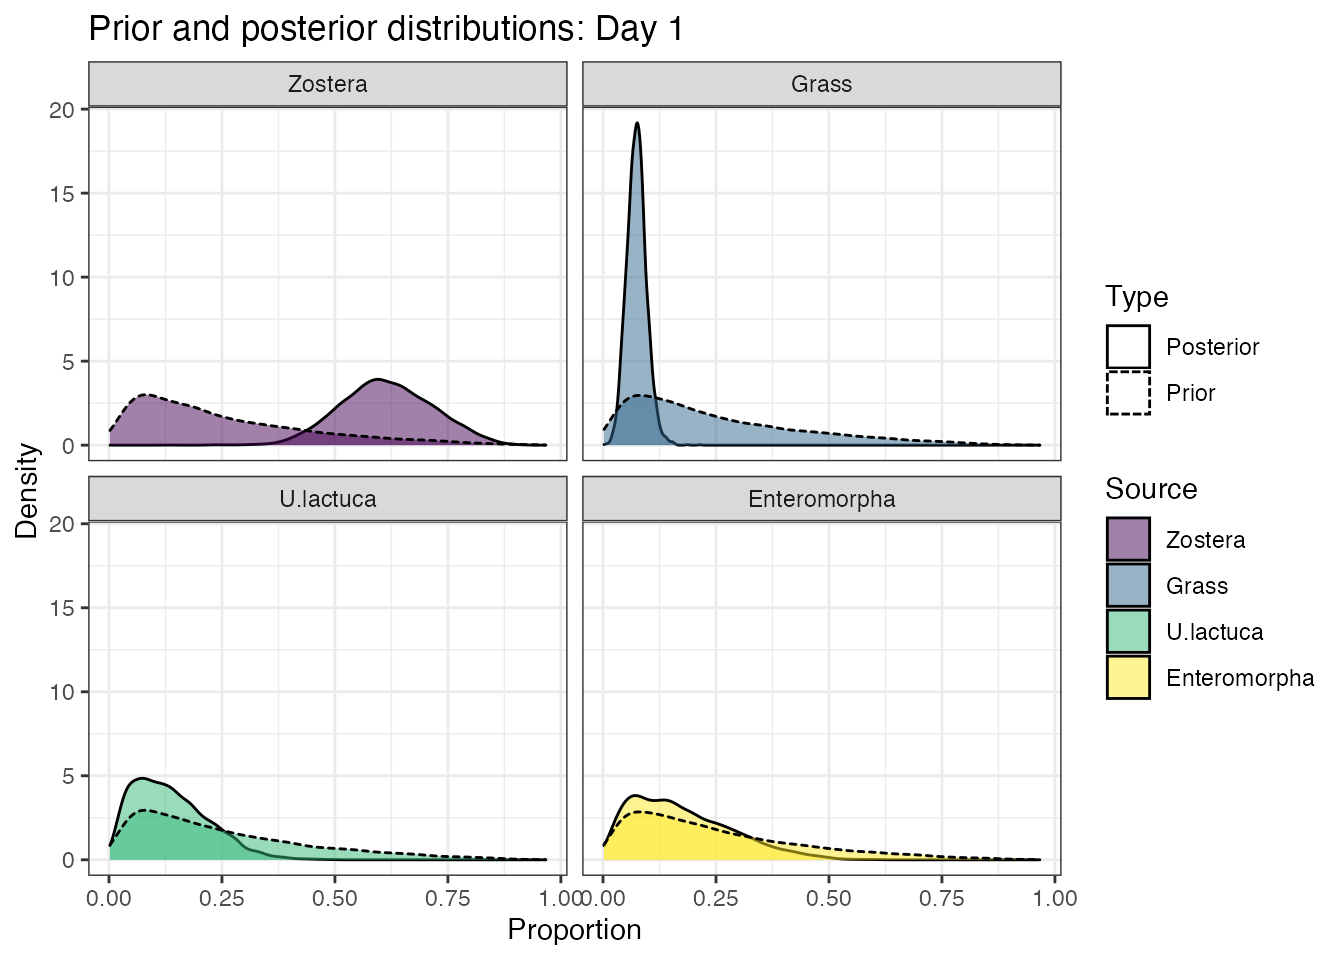
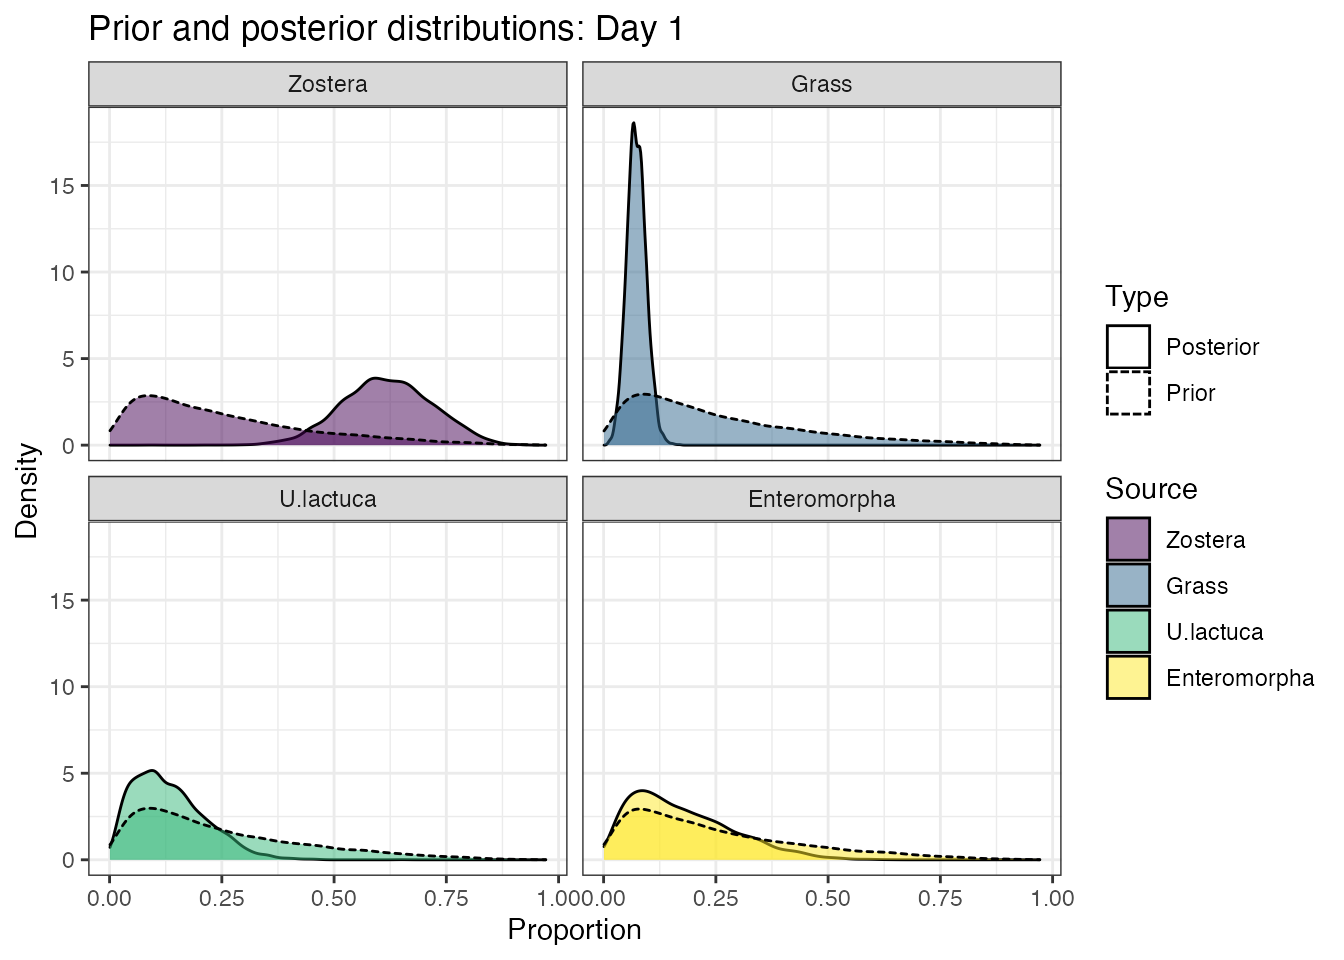
Created better vignette

diff --git a/docs/articles/simmr.html b/docs/articles/simmr.html
@@ -160,9 +160,11 @@
 </li>
 <li>Run the mixing model with <code>simmr_mcmc</code>
 </li>
-<li>Explore the results with <code>plot</code> and <code>summary</code>
+<li>Check the model converged with <code>summary</code>
 </li>
-<li>If you have multiple groups and want to compare output between them, use the `compare_groups’ function</li>
+<li>Check the model fit is calibrated with <code>posterior_predictive</code>
+</li>
+<li>Explore the results with <code>plot</code> and <code>summary</code>, and <code>prior_viz</code>. If you have multiple groups and want to compare output between them, use the `compare_groups’ function</li>
 </ol>
 <p>For the next part of this document, we concentrate on simple examples without grouping structure.</p>
 <div id="step-1-getting-the-data-into-simmr" class="section level3">
@@ -271,25 +273,25 @@
 <pre><code>## 
 ## Summary for 1 
 ##                mean    sd
-## deviance     36.293 3.174
+## deviance     36.228 3.230
 ## Zostera       0.222 0.132
-## Grass         0.287 0.080
+## Grass         0.287 0.078
 ## U.lactuca     0.276 0.032
-## Enteromorpha  0.215 0.120
-## sd[d13C]      0.551 0.232
-## sd[d15N]      0.426 0.228</code></pre>
+## Enteromorpha  0.215 0.118
+## sd[d13C]      0.555 0.236
+## sd[d15N]      0.422 0.229</code></pre>
 <div class="sourceCode" id="cb16"><pre class="downlit sourceCode r">
 <code class="sourceCode R"><span class="fu"><a href="https://rdrr.io/r/base/summary.html">summary</a></span><span class="op">(</span><span class="va">simmr_out</span>, type <span class="op">=</span> <span class="st">"quantiles"</span><span class="op">)</span></code></pre></div>
 <pre><code>## 
 ## Summary for 1 
 ##                2.5%    25%    50%    75%  97.5%
-## deviance     32.258 33.993 35.612 37.879 44.313
-## Zostera       0.029  0.113  0.203  0.314  0.501
-## Grass         0.141  0.233  0.284  0.337  0.456
-## U.lactuca     0.214  0.256  0.275  0.295  0.342
-## Enteromorpha  0.032  0.116  0.203  0.297  0.469
-## sd[d13C]      0.188  0.397  0.526  0.671  1.069
-## sd[d15N]      0.039  0.275  0.403  0.558  0.938</code></pre>
+## deviance     32.175 33.921 35.487 37.726 44.746
+## Zostera       0.032  0.114  0.203  0.316  0.506
+## Grass         0.145  0.234  0.283  0.335  0.450
+## U.lactuca     0.218  0.254  0.275  0.296  0.341
+## Enteromorpha  0.032  0.119  0.203  0.296  0.463
+## sd[d13C]      0.186  0.397  0.519  0.677  1.117
+## sd[d15N]      0.046  0.271  0.393  0.549  0.948</code></pre>
 <p>These suggest that the dietary proportions for this model are quite uncertain. However we can see that the credible interval for U.lactuca is the narrowest, running from approximately 20% to 35% of the diet. The reason this one is the narrowest can be seen from the isospace plot - this source is the most clearly separated from the others.</p>
 <p><code>simmr</code> can also produce histograms, boxplots, density plots, and matrix plots of the output. Starting with the density plot:</p>
 <div class="sourceCode" id="cb18"><pre class="downlit sourceCode r">
@@ -306,7 +308,7 @@
 <code class="sourceCode R"><span class="fu"><a href="../reference/compare_sources.html">compare_sources</a></span><span class="op">(</span><span class="va">simmr_out</span>,
   source_names <span class="op">=</span> <span class="fu"><a href="https://rdrr.io/r/base/c.html">c</a></span><span class="op">(</span><span class="st">"Zostera"</span>, <span class="st">"U.lactuca"</span><span class="op">)</span>
 <span class="op">)</span></code></pre></div>
-<pre><code>## Prob ( proportion of Zostera &gt; proportion of U.lactuca ) = 0.344</code></pre>
+<pre><code>## Prob ( proportion of Zostera &gt; proportion of U.lactuca ) = 0.347</code></pre>
 <p><img src="simmr_files/figure-html/unnamed-chunk-15-1.png" width="672" style="display: block; margin: auto;"></p>
 <p>This produces a direct probability that the dietary proportion for the first source is bigger than that of the second. If you want to compare more than two sources, specify them with:</p>
 <div class="sourceCode" id="cb22"><pre class="downlit sourceCode r">
@@ -319,12 +321,12 @@
 <span class="op">)</span></code></pre></div>
 <pre><code>## Most popular orderings are as follows:
 ##                                    Probability
-## Zostera &gt; U.lactuca &gt; Enteromorpha      0.3097
-## Enteromorpha &gt; U.lactuca &gt; Zostera      0.2606
-## U.lactuca &gt; Enteromorpha &gt; Zostera      0.2269
-## U.lactuca &gt; Zostera &gt; Enteromorpha      0.1689
-## Enteromorpha &gt; Zostera &gt; U.lactuca      0.0186
-## Zostera &gt; Enteromorpha &gt; U.lactuca      0.0153</code></pre>
+## Zostera &gt; U.lactuca &gt; Enteromorpha      0.3125
+## Enteromorpha &gt; U.lactuca &gt; Zostera      0.2600
+## U.lactuca &gt; Enteromorpha &gt; Zostera      0.2283
+## U.lactuca &gt; Zostera &gt; Enteromorpha      0.1647
+## Enteromorpha &gt; Zostera &gt; U.lactuca      0.0178
+## Zostera &gt; Enteromorpha &gt; U.lactuca      0.0167</code></pre>
 <p><img src="simmr_files/figure-html/unnamed-chunk-16-1.png" width="672" style="display: block; margin: auto;"></p>
 <p>For further information and options on comparing sources, see <code><a href="../reference/compare_sources.html">help(compare_sources)</a></code>.</p>
 </div>
@@ -382,13 +384,13 @@
 <pre><code>## 
 ## Summary for Period 1 
 ##                2.5%    25%    50%    75%  97.5%
-## deviance     51.097 52.542 53.948 56.232 62.669
-## Zostera       0.380  0.524  0.597  0.669  0.807
-## Grass         0.032  0.057  0.072  0.086  0.121
-## U.lactuca     0.019  0.076  0.125  0.192  0.320
-## Enteromorpha  0.022  0.091  0.168  0.269  0.484
-## sd[d13C_Pl]   0.059  0.522  0.890  1.312  2.338
-## sd[d15N_Pl]   0.017  0.167  0.361  0.638  1.392</code></pre>
+## deviance     51.080 52.526 54.035 56.287 62.731
+## Zostera       0.377  0.515  0.591  0.670  0.806
+## Grass         0.031  0.058  0.071  0.086  0.120
+## U.lactuca     0.021  0.074  0.127  0.194  0.318
+## Enteromorpha  0.024  0.093  0.171  0.280  0.497
+## sd[d13C_Pl]   0.072  0.524  0.889  1.308  2.415
+## sd[d15N_Pl]   0.014  0.171  0.355  0.640  1.407</code></pre>
 <div class="sourceCode" id="cb30"><pre class="downlit sourceCode r">
 <code class="sourceCode R"><span class="fu"><a href="https://rdrr.io/r/base/summary.html">summary</a></span><span class="op">(</span><span class="va">simmr_groups_out</span>,
   type <span class="op">=</span> <span class="st">"quantiles"</span>,
@@ -397,23 +399,23 @@
 <pre><code>## 
 ## Summary for Period 1 
 ##                2.5%    25%    50%    75%  97.5%
-## deviance     51.097 52.542 53.948 56.232 62.669
-## Zostera       0.380  0.524  0.597  0.669  0.807
-## Grass         0.032  0.057  0.072  0.086  0.121
-## U.lactuca     0.019  0.076  0.125  0.192  0.320
-## Enteromorpha  0.022  0.091  0.168  0.269  0.484
-## sd[d13C_Pl]   0.059  0.522  0.890  1.312  2.338
-## sd[d15N_Pl]   0.017  0.167  0.361  0.638  1.392
+## deviance     51.080 52.526 54.035 56.287 62.731
+## Zostera       0.377  0.515  0.591  0.670  0.806
+## Grass         0.031  0.058  0.071  0.086  0.120
+## U.lactuca     0.021  0.074  0.127  0.194  0.318
+## Enteromorpha  0.024  0.093  0.171  0.280  0.497
+## sd[d13C_Pl]   0.072  0.524  0.889  1.308  2.415
+## sd[d15N_Pl]   0.014  0.171  0.355  0.640  1.407
 ## 
 ## Summary for Period 3 
 ##                 2.5%     25%     50%     75%   97.5%
-## deviance     454.645 456.466 458.171 460.421 466.823
-## Zostera        0.010   0.024   0.037   0.052   0.087
-## Grass          0.389   0.416   0.427   0.436   0.452
-## U.lactuca      0.272   0.386   0.433   0.471   0.523
-## Enteromorpha   0.016   0.052   0.094   0.153   0.306
-## sd[d13C_Pl]    0.412   0.660   0.770   0.876   1.074
-## sd[d15N_Pl]    0.008   0.072   0.155   0.269   0.543</code></pre>
+## deviance     454.584 456.349 458.028 460.473 466.447
+## Zostera        0.009   0.025   0.037   0.052   0.084
+## Grass          0.387   0.417   0.427   0.436   0.452
+## U.lactuca      0.267   0.389   0.437   0.474   0.524
+## Enteromorpha   0.013   0.051   0.090   0.150   0.310
+## sd[d13C_Pl]    0.412   0.661   0.773   0.876   1.088
+## sd[d15N_Pl]    0.008   0.073   0.156   0.267   0.522</code></pre>
 <div class="sourceCode" id="cb32"><pre class="downlit sourceCode r">
 <code class="sourceCode R"><span class="fu"><a href="https://rdrr.io/r/base/summary.html">summary</a></span><span class="op">(</span><span class="va">simmr_groups_out</span>,
   type <span class="op">=</span> <span class="fu"><a href="https://rdrr.io/r/base/c.html">c</a></span><span class="op">(</span><span class="st">"quantiles"</span>, <span class="st">"statistics"</span><span class="op">)</span>,
@@ -422,39 +424,39 @@
 <pre><code>## 
 ## Summary for Period 1 
 ##                2.5%    25%    50%    75%  97.5%
-## deviance     51.097 52.542 53.948 56.232 62.669
-## Zostera       0.380  0.524  0.597  0.669  0.807
-## Grass         0.032  0.057  0.072  0.086  0.121
-## U.lactuca     0.019  0.076  0.125  0.192  0.320
-## Enteromorpha  0.022  0.091  0.168  0.269  0.484
-## sd[d13C_Pl]   0.059  0.522  0.890  1.312  2.338
-## sd[d15N_Pl]   0.017  0.167  0.361  0.638  1.392
+## deviance     51.080 52.526 54.035 56.287 62.731
+## Zostera       0.377  0.515  0.591  0.670  0.806
+## Grass         0.031  0.058  0.071  0.086  0.120
+## U.lactuca     0.021  0.074  0.127  0.194  0.318
+## Enteromorpha  0.024  0.093  0.171  0.280  0.497
+## sd[d13C_Pl]   0.072  0.524  0.889  1.308  2.415
+## sd[d15N_Pl]   0.014  0.171  0.355  0.640  1.407
 ##                mean    sd
-## deviance     54.762 3.073
-## Zostera       0.597 0.108
+## deviance     54.797 3.113
+## Zostera       0.592 0.112
 ## Grass         0.073 0.022
 ## U.lactuca     0.139 0.081
-## Enteromorpha  0.192 0.126
-## sd[d13C_Pl]   0.967 0.614
-## sd[d15N_Pl]   0.453 0.382
+## Enteromorpha  0.196 0.129
+## sd[d13C_Pl]   0.974 0.635
+## sd[d15N_Pl]   0.451 0.383
 ## 
 ## Summary for Period 3 
 ##                 2.5%     25%     50%     75%   97.5%
-## deviance     454.645 456.466 458.171 460.421 466.823
-## Zostera        0.010   0.024   0.037   0.052   0.087
-## Grass          0.389   0.416   0.427   0.436   0.452
-## U.lactuca      0.272   0.386   0.433   0.471   0.523
-## Enteromorpha   0.016   0.052   0.094   0.153   0.306
-## sd[d13C_Pl]    0.412   0.660   0.770   0.876   1.074
-## sd[d15N_Pl]    0.008   0.072   0.155   0.269   0.543
+## deviance     454.584 456.349 458.028 460.473 466.447
+## Zostera        0.009   0.025   0.037   0.052   0.084
+## Grass          0.387   0.417   0.427   0.436   0.452
+## U.lactuca      0.267   0.389   0.437   0.474   0.524
+## Enteromorpha   0.013   0.051   0.090   0.150   0.310
+## sd[d13C_Pl]    0.412   0.661   0.773   0.876   1.088
+## sd[d15N_Pl]    0.008   0.073   0.156   0.267   0.522
 ##                 mean    sd
-## deviance     458.833 3.232
-## Zostera        0.040 0.021
+## deviance     458.731 3.161
+## Zostera        0.039 0.020
 ## Grass          0.425 0.016
-## U.lactuca      0.423 0.065
-## Enteromorpha   0.112 0.078
-## sd[d13C_Pl]    0.764 0.168
-## sd[d15N_Pl]    0.188 0.145</code></pre>
+## U.lactuca      0.426 0.066
+## Enteromorpha   0.109 0.078
+## sd[d13C_Pl]    0.766 0.171
+## sd[d15N_Pl]    0.185 0.140</code></pre>
 <p>For plotting output with multiple groups you can only specify a single group to plot. This is so that you are not overwhelmed with plots:</p>
 <div class="sourceCode" id="cb34"><pre class="downlit sourceCode r">
 <code class="sourceCode R"><span class="fu"><a href="https://rdrr.io/r/graphics/plot.default.html">plot</a></span><span class="op">(</span><span class="va">simmr_groups_out</span>,
@@ -487,8 +489,8 @@
 <span class="op">)</span></code></pre></div>
 <pre><code>## Most popular orderings are as follows:
 ##                                Probability
-## Period 1 &gt; Period 2 &gt; Period 3        0.81
-## Period 1 &gt; Period 3 &gt; Period 2        0.19</code></pre>
+## Period 1 &gt; Period 2 &gt; Period 3      0.8036
+## Period 1 &gt; Period 3 &gt; Period 2      0.1964</code></pre>
 <p><img src="simmr_files/figure-html/unnamed-chunk-24-1.png" width="672" style="display: block; margin: auto;"></p>
 </div>
 <div id="combining-sources" class="section level2">
@@ -547,8 +549,8 @@
 <span class="op">)</span></code></pre></div>
 <pre><code>## Most popular orderings are as follows:
 ##                                Probability
-## Period 1 &gt; Period 2 &gt; Period 3      0.9933
-## Period 2 &gt; Period 1 &gt; Period 3      0.0067</code></pre>
+## Period 1 &gt; Period 2 &gt; Period 3      0.9944
+## Period 2 &gt; Period 1 &gt; Period 3      0.0056</code></pre>
 <p><img src="simmr_files/figure-html/unnamed-chunk-26-4.png" width="672" style="display: block; margin: auto;"></p>
 </div>
 <div id="running-simmr-with-only-one-isotope" class="section level2">
@@ -610,13 +612,13 @@
 <pre><code>## 
 ## Summary for 1 
 ##                2.5%    25%    50%    75%  97.5%
-## deviance     32.258 33.993 35.612 37.879 44.313
-## Zostera       0.029  0.113  0.203  0.314  0.501
-## Grass         0.141  0.233  0.284  0.337  0.456
-## U.lactuca     0.214  0.256  0.275  0.295  0.342
-## Enteromorpha  0.032  0.116  0.203  0.297  0.469
-## sd[d13C]      0.188  0.397  0.526  0.671  1.069
-## sd[d15N]      0.039  0.275  0.403  0.558  0.938</code></pre>
+## deviance     32.175 33.921 35.487 37.726 44.746
+## Zostera       0.032  0.114  0.203  0.316  0.506
+## Grass         0.145  0.234  0.283  0.335  0.450
+## U.lactuca     0.218  0.254  0.275  0.296  0.341
+## Enteromorpha  0.032  0.119  0.203  0.296  0.463
+## sd[d13C]      0.186  0.397  0.519  0.677  1.117
+## sd[d15N]      0.046  0.271  0.393  0.549  0.948</code></pre>
 <p>All these dietary proportions are very similar. We now suppose we had prior information (e.g. from stomach or fecal contents) that the mean dietary proportions were</p>
 <div class="sourceCode" id="cb55"><pre class="downlit sourceCode r">
 <code class="sourceCode R"><span class="va">proportion_means</span> <span class="op">&lt;-</span> <span class="fu"><a href="https://rdrr.io/r/base/c.html">c</a></span><span class="op">(</span><span class="fl">0.4</span>, <span class="fl">0.3</span>, <span class="fl">0.2</span>, <span class="fl">0.1</span><span class="op">)</span></code></pre></div>
@@ -633,9 +635,9 @@
 ## Mean optimisation successful.
 ## Standard deviation optimisation successful.
 ## Best fit estimates provide proportion means of:
-## 0.433 0.306 0.186 0.075
+## 0.434 0.304 0.177 0.085
 ## ... and best fit standard deviations of:
-## 0.045 0.025 0.015 0.011
+## 0.051 0.028 0.017 0.013
 ## Check these match the input values before proceeding with a model run.</code></pre>
 <p>This may take a few moments to run as the code tries to optimise the parameters of a prior distribution which matches these means and standard deviations, which sometimes may not be exactly possible.</p>
 <p>When finished, the model can be run using these prior distributions:</p>
@@ -664,13 +666,13 @@
 <pre><code>## 
 ## Summary for 1 
 ##                2.5%    25%    50%    75%  97.5%
-## deviance     42.121 45.503 47.531 49.860 55.170
-## Zostera       0.313  0.362  0.389  0.419  0.472
-## Grass         0.282  0.312  0.328  0.343  0.372
-## U.lactuca     0.175  0.194  0.203  0.213  0.229
-## Enteromorpha  0.059  0.071  0.078  0.086  0.103
-## sd[d13C]      0.416  0.617  0.757  0.935  1.411
-## sd[d15N]      0.303  0.543  0.690  0.870  1.385</code></pre>
+## deviance     44.097 47.820 50.007 52.342 58.191
+## Zostera       0.296  0.351  0.383  0.413  0.474
+## Grass         0.282  0.315  0.331  0.349  0.379
+## U.lactuca     0.166  0.186  0.196  0.207  0.227
+## Enteromorpha  0.066  0.080  0.089  0.098  0.117
+## sd[d13C]      0.443  0.663  0.807  0.998  1.539
+## sd[d15N]      0.360  0.599  0.756  0.961  1.523</code></pre>
 <p>We can plot these priors with their posteriors</p>
 <div class="sourceCode" id="cb63"><pre class="downlit sourceCode r">
 <code class="sourceCode R"><span class="fu"><a href="../reference/prior_viz.html">prior_viz</a></span><span class="op">(</span><span class="va">simmr_out_informative</span><span class="op">)</span></code></pre></div>
@@ -722,15 +724,15 @@ byrow <span class="op">=</span> <span class="cn">TRUE</span>
 <div class="sourceCode" id="cb70"><pre class="downlit sourceCode r">
 <code class="sourceCode R"><span class="fu"><a href="https://rdrr.io/r/base/summary.html">summary</a></span><span class="op">(</span><span class="va">simmr_tdf_out</span>, type <span class="op">=</span> <span class="st">"quantiles"</span><span class="op">)</span></code></pre></div>
 <pre><code>##               2.5%    25%    50%    75%  97.5%
-## c_mean[1,1]  2.105  2.467  2.628  2.776  3.101
-## c_mean[2,1]  2.105  2.467  2.628  2.776  3.101
-## c_mean[3,1]  2.105  2.467  2.628  2.776  3.101
-## c_mean[4,1]  2.105  2.467  2.628  2.776  3.101
-## c_sd[1,1]    0.151  0.563  0.834  1.114  1.803
-## c_sd[2,1]    0.151  0.563  0.834  1.114  1.803
-## c_sd[3,1]    0.151  0.563  0.834  1.114  1.803
-## c_sd[4,1]    0.151  0.563  0.834  1.114  1.803
-## deviance    16.987 17.836 19.171 21.200 27.919</code></pre>
+## c_mean[1,1]  2.108  2.476  2.631  2.777  3.092
+## c_mean[2,1]  2.108  2.476  2.631  2.777  3.092
+## c_mean[3,1]  2.108  2.476  2.631  2.777  3.092
+## c_mean[4,1]  2.108  2.476  2.631  2.777  3.092
+## c_sd[1,1]    0.185  0.584  0.829  1.099  1.811
+## c_sd[2,1]    0.185  0.584  0.829  1.099  1.811
+## c_sd[3,1]    0.185  0.584  0.829  1.099  1.811
+## c_sd[4,1]    0.185  0.584  0.829  1.099  1.811
+## deviance    16.981 17.799 19.079 21.111 27.746</code></pre>
 <p>We can put the predicted TDFs back into a new model and check that the iso-space plot now is correct</p>
 <div class="sourceCode" id="cb72"><pre class="downlit sourceCode r">
 <code class="sourceCode R"><span class="va">simmr_tdf_2</span> <span class="op">&lt;-</span> <span class="fu"><a href="../reference/simmr_load.html">simmr_load</a></span><span class="op">(</span>
@@ -761,7 +763,7 @@ byrow <span class="op">=</span> <span class="cn">TRUE</span>
 <span class="op">)</span> <span class="op">+</span>
   <span class="fu"><a href="https://rdrr.io/r/graphics/plot.window.html">ylim</a></span><span class="op">(</span><span class="fl">0</span>, <span class="fl">0.5</span><span class="op">)</span></code></pre></div>
 <p><img src="simmr_files/figure-html/unnamed-chunk-47-1.png" width="672" style="display: block; margin: auto;"></p>
-<pre><code>## Warning: Removed 2085 rows containing non-finite values (stat_boxplot).</code></pre>
+<pre><code>## Warning: Removed 2063 rows containing non-finite values (stat_boxplot).</code></pre>
 <p><img src="simmr_files/figure-html/unnamed-chunk-47-2.png" width="672" style="display: block; margin: auto;"></p>
 <p>Note that the above actually changes the x-axis and not the x-axis despite the above command. This is because the coordinates are flipped in the ggplot.</p>
 <p>Other options you might like to customise include labels on axes, titles/subtitles, etc. More complicated changes can be made but these involve changing the ggplot commands that simmr uses in the background.</p>
@@ -800,12 +802,12 @@ byrow <span class="op">=</span> <span class="cn">TRUE</span>
 <p>which will show their contents. The <code>simmr_out</code> object in particular allows for full access to all of the posterior dietary proportion samples. We can calculate for example the mean of the Zostera dietary proportion on the first (or only) group:</p>
 <div class="sourceCode" id="cb78"><pre class="downlit sourceCode r">
 <code class="sourceCode R"><span class="fu"><a href="https://rdrr.io/r/base/mean.html">mean</a></span><span class="op">(</span><span class="va">simmr_out</span><span class="op">$</span><span class="va">output</span><span class="op">$</span><span class="va">`1`</span><span class="op">$</span><span class="va">BUGSoutput</span><span class="op">$</span><span class="va">sims.list</span><span class="op">$</span><span class="va">p</span><span class="op">[</span>, <span class="st">"Zostera"</span><span class="op">]</span><span class="op">)</span></code></pre></div>
-<pre><code>## [1] 0.2219324</code></pre>
+<pre><code>## [1] 0.2224254</code></pre>
 <p>The backquotes around the 1 are required above because they specify which group (the first). We can thus find the probability that the posterior dietary proportion for Zostera is bigger than for Grass:</p>
 <div class="sourceCode" id="cb80"><pre class="downlit sourceCode r">
 <code class="sourceCode R"><span class="fu"><a href="https://rdrr.io/r/base/mean.html">mean</a></span><span class="op">(</span><span class="va">simmr_out</span><span class="op">$</span><span class="va">output</span><span class="op">$</span><span class="va">`1`</span><span class="op">$</span><span class="va">BUGSoutput</span><span class="op">$</span><span class="va">sims.list</span><span class="op">$</span><span class="va">p</span><span class="op">[</span>, <span class="st">"Zostera"</span><span class="op">]</span>
 <span class="op">&gt;</span> <span class="va">simmr_out</span><span class="op">$</span><span class="va">output</span><span class="op">$</span><span class="va">`1`</span><span class="op">$</span><span class="va">BUGSoutput</span><span class="op">$</span><span class="va">sims.list</span><span class="op">$</span><span class="va">p</span><span class="op">[</span>, <span class="st">"Grass"</span><span class="op">]</span><span class="op">)</span></code></pre></div>
-<pre><code>## [1] 0.3427778</code></pre>
+<pre><code>## [1] 0.3477778</code></pre>
 <p>With more detailed R knowledge, it is possible to create scripts which run multiple data sets in richer fashions than the default <code>simmr</code> functions. See the help file <code><a href="../reference/simmr_mcmc.html">help(simmr_mcmc)</a></code> for a full list of examples.</p>
 </div>
 <div id="appendix---suggested-reading" class="section level2">

diff --git a/docs/articles/quick_start.html b/docs/articles/quick_start.html
@@ -185,30 +185,30 @@
                source_name <span class="op">=</span> <span class="st">'Enteromorpha'</span><span class="op">)</span></code></pre></div>
 <pre><code>## Most popular orderings are as follows:
 ##                                     Probability
-## Day 428 &gt; Day 124 &gt; Day 398 &gt; Day 1      0.2278
-## Day 428 &gt; Day 398 &gt; Day 124 &gt; Day 1      0.1672
-## Day 428 &gt; Day 124 &gt; Day 1 &gt; Day 398      0.1575
-## Day 428 &gt; Day 398 &gt; Day 1 &gt; Day 124      0.0961
-## Day 428 &gt; Day 1 &gt; Day 124 &gt; Day 398      0.0753
-## Day 428 &gt; Day 1 &gt; Day 398 &gt; Day 124      0.0689
-## Day 124 &gt; Day 428 &gt; Day 398 &gt; Day 1      0.0567
-## Day 124 &gt; Day 428 &gt; Day 1 &gt; Day 398      0.0361
-## Day 398 &gt; Day 428 &gt; Day 124 &gt; Day 1      0.0356
-## Day 398 &gt; Day 428 &gt; Day 1 &gt; Day 124      0.0167
-## Day 124 &gt; Day 398 &gt; Day 428 &gt; Day 1      0.0164
-## Day 398 &gt; Day 124 &gt; Day 428 &gt; Day 1      0.0119
-## Day 1 &gt; Day 428 &gt; Day 124 &gt; Day 398      0.0072
-## Day 124 &gt; Day 1 &gt; Day 428 &gt; Day 398      0.0058
-## Day 1 &gt; Day 428 &gt; Day 398 &gt; Day 124      0.0039
-## Day 398 &gt; Day 1 &gt; Day 428 &gt; Day 124      0.0033
-## Day 1 &gt; Day 124 &gt; Day 428 &gt; Day 398      0.0031
-## Day 1 &gt; Day 398 &gt; Day 428 &gt; Day 124      0.0028
-## Day 398 &gt; Day 124 &gt; Day 1 &gt; Day 428      0.0025
-## Day 1 &gt; Day 124 &gt; Day 398 &gt; Day 428      0.0014
-## Day 124 &gt; Day 1 &gt; Day 398 &gt; Day 428      0.0014
-## Day 124 &gt; Day 398 &gt; Day 1 &gt; Day 428      0.0011
-## Day 398 &gt; Day 1 &gt; Day 124 &gt; Day 428      0.0011
-## Day 1 &gt; Day 398 &gt; Day 124 &gt; Day 428      0.0003</code></pre>
+## Day 428 &gt; Day 124 &gt; Day 398 &gt; Day 1      0.2114
+## Day 428 &gt; Day 398 &gt; Day 124 &gt; Day 1      0.1772
+## Day 428 &gt; Day 124 &gt; Day 1 &gt; Day 398      0.1664
+## Day 428 &gt; Day 398 &gt; Day 1 &gt; Day 124      0.1156
+## Day 428 &gt; Day 1 &gt; Day 124 &gt; Day 398      0.0764
+## Day 428 &gt; Day 1 &gt; Day 398 &gt; Day 124      0.0725
+## Day 124 &gt; Day 428 &gt; Day 398 &gt; Day 1      0.0408
+## Day 398 &gt; Day 428 &gt; Day 124 &gt; Day 1      0.0372
+## Day 124 &gt; Day 428 &gt; Day 1 &gt; Day 398      0.0256
+## Day 398 &gt; Day 428 &gt; Day 1 &gt; Day 124      0.0200
+## Day 124 &gt; Day 398 &gt; Day 428 &gt; Day 1      0.0117
+## Day 398 &gt; Day 124 &gt; Day 428 &gt; Day 1      0.0097
+## Day 1 &gt; Day 428 &gt; Day 124 &gt; Day 398      0.0069
+## Day 1 &gt; Day 428 &gt; Day 398 &gt; Day 124      0.0064
+## Day 398 &gt; Day 1 &gt; Day 428 &gt; Day 124      0.0053
+## Day 124 &gt; Day 1 &gt; Day 428 &gt; Day 398      0.0036
+## Day 1 &gt; Day 124 &gt; Day 428 &gt; Day 398      0.0025
+## Day 1 &gt; Day 398 &gt; Day 428 &gt; Day 124      0.0022
+## Day 1 &gt; Day 124 &gt; Day 398 &gt; Day 428      0.0019
+## Day 124 &gt; Day 398 &gt; Day 1 &gt; Day 428      0.0017
+## Day 398 &gt; Day 124 &gt; Day 1 &gt; Day 428      0.0017
+## Day 398 &gt; Day 1 &gt; Day 124 &gt; Day 428      0.0014
+## Day 1 &gt; Day 398 &gt; Day 124 &gt; Day 428      0.0011
+## Day 124 &gt; Day 1 &gt; Day 398 &gt; Day 428      0.0008</code></pre>
 <p><img src="quick_start_files/figure-html/unnamed-chunk-13-1.png" width="672" style="display: block; margin: auto;"></p>
 <p>For the many more options available to run and analyse output, see the main vignette via <code><a href="../articles/simmr.html">vignette('simmr')</a></code></p>
 </div>
